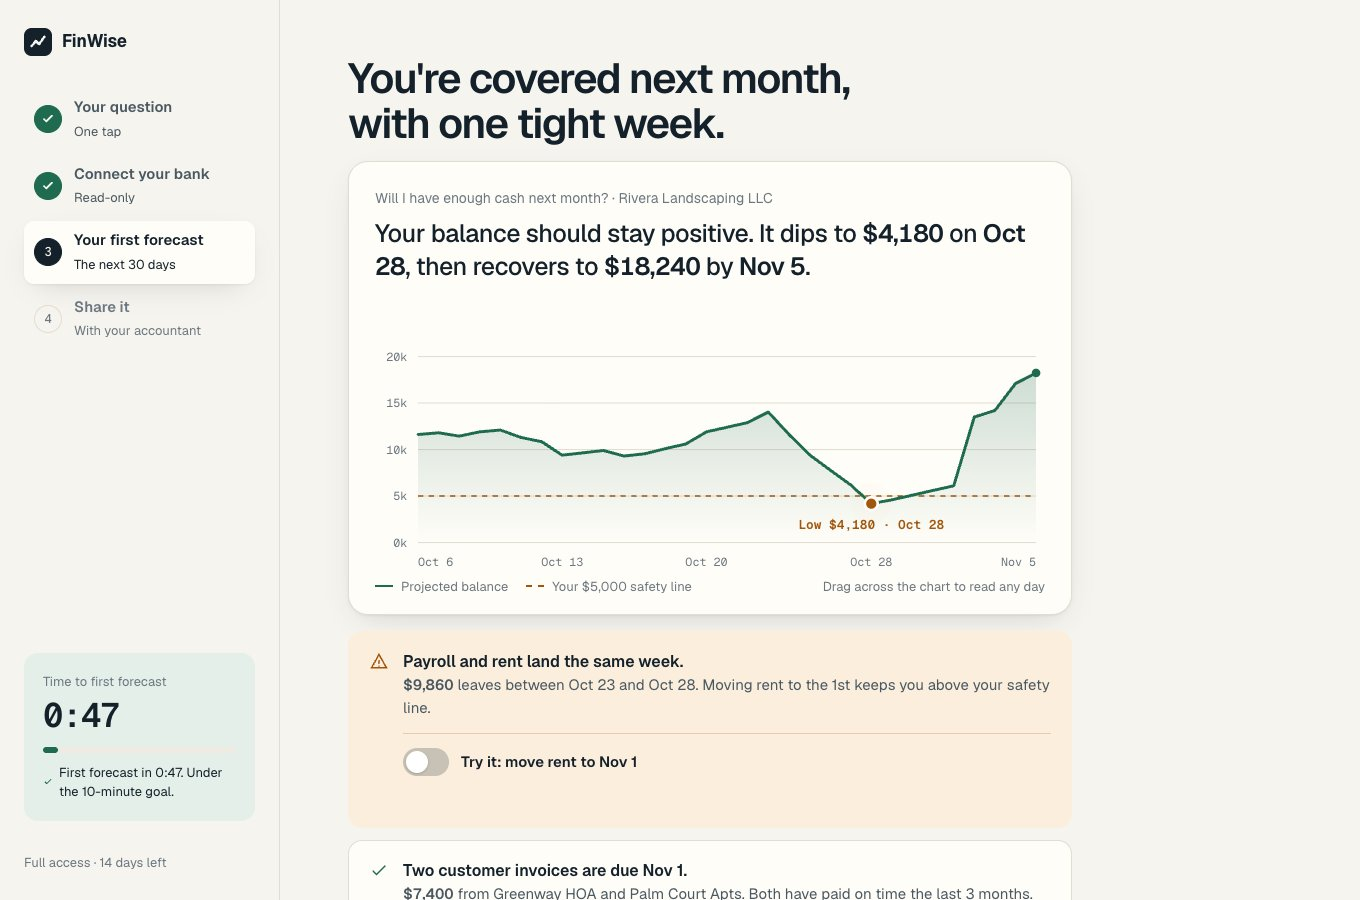
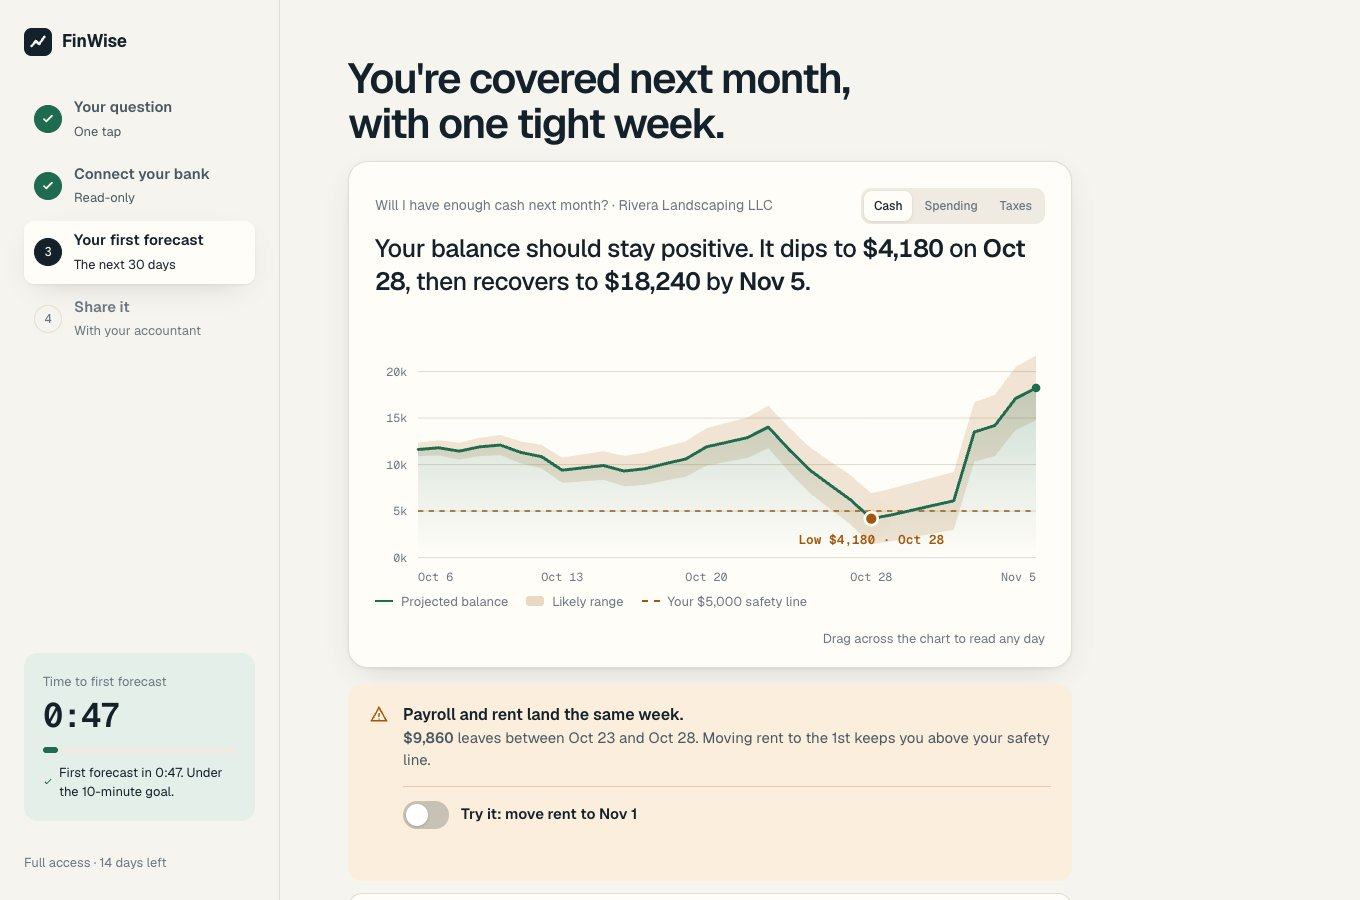
M2 prototype: each quiz answer gets its own Aha visual (spending breakdown, tax set-aside), answer switcher, likely-range band on the forecast

Changed region(s): [[0.2471, 0.4044, 0.8029, 1.0], [0.2779, 0.2178, 0.7721, 0.3422], [0.2779, 0.4356, 0.3088, 0.4667]]

diff --git a/02-solution/prototype/index.html b/02-solution/prototype/index.html
@@ -183,6 +183,42 @@ h1:focus{outline:none}
 .whatif label{font-weight:600;font-size:15px;cursor:pointer}
 .whatif .res{flex-basis:100%;font-size:14px;color:var(--ink-2);min-height:21px}
 
+/* goal switch + goal visuals */
+.qrow{display:flex;justify-content:space-between;align-items:center;gap:12px;flex-wrap:wrap;margin-bottom:8px}
+.qrow .q{margin:0}
+.qswitch{display:inline-flex;padding:3px;border-radius:10px;background:var(--line-2);gap:2px}
+.qswitch button{border:0;background:transparent;padding:6px 10px;border-radius:8px;font-size:12px;font-weight:500;color:var(--ink-3);cursor:pointer;transition:background .25s,color .25s}
+.qswitch button[aria-pressed="true"]{background:var(--card);color:var(--ink);box-shadow:0 1px 3px rgba(20,33,43,.12)}
+.gviz{margin:22px 0 6px}
+.gviz[hidden],.chartttl[hidden]{display:none}
+.chartttl{font-size:13px;color:var(--ink-3);margin-top:22px;margin-bottom:-14px}
+.bills{display:grid;gap:12px}
+.bill{display:grid;grid-template-columns:90px minmax(0,1fr) 78px 64px;gap:12px;align-items:center;font-size:14px}
+.bill .nm{font-weight:600}
+.bill .tr{height:12px;border-radius:6px;background:var(--line-2);overflow:hidden}
+.bill .tr i{display:block;height:100%;width:0;border-radius:6px;transition:width 1s var(--ease)}
+.bill .am{font:600 14px "Geist Mono",monospace;text-align:right;font-variant-numeric:tabular-nums}
+.bill .wh{font-size:12px;color:var(--ink-3);text-align:right}
+.strip{position:relative;height:56px;margin-top:22px;border-top:1px solid var(--line)}
+.strip .wk{position:absolute;top:0;height:34px;border-radius:0 0 8px 8px;background:var(--amber-soft);opacity:0;transition:opacity .6s var(--ease) .6s}
+.strip .wk span{position:absolute;left:8px;top:8px;font-size:12px;font-weight:600;color:var(--amber);white-space:nowrap}
+.strip .pin{position:absolute;top:-6px;width:12px;height:12px;margin-left:-6px;border-radius:50%;border:2px solid var(--card);transform:scale(0);transition:transform .5s var(--ease)}
+.strip .tk{position:absolute;bottom:0;font:11px "Geist Mono",monospace;color:var(--ink-3);transform:translateX(-50%);white-space:nowrap}
+.strip .tk:first-of-type{transform:none}.strip .tk:last-of-type{transform:translateX(-100%)}
+.gviz.in .wk{opacity:1}.gviz.in .pin{transform:scale(1)}
+.tax{display:grid;gap:14px}
+.tax .goalrow{display:flex;justify-content:space-between;align-items:baseline;font-size:14px;color:var(--ink-3)}
+.tax .goalrow b{font:600 22px "Geist Mono",monospace;color:var(--ink);letter-spacing:-.03em}
+.tax .track{display:grid;grid-template-columns:repeat(3,1fr);gap:6px}
+.tax .blk{height:44px;border-radius:10px;background:var(--line-2);position:relative;overflow:hidden}
+.tax .blk i{position:absolute;inset:0;background:var(--green);transform:scaleX(0);transform-origin:left;transition:transform .7s var(--ease)}
+.tax .blk>span{position:absolute;inset:0;display:flex;align-items:center;justify-content:space-between;padding:0 12px;font-size:13px;font-weight:600;color:var(--ink);z-index:1;transition:color .4s}
+.tax .blk.on>span{color:#fff}
+.tax .hold{display:flex;gap:10px;align-items:center;font-size:13px;color:var(--ink-2);padding:10px 12px;border-radius:10px;background:var(--amber-soft)}
+.tax .hold svg{flex:none;width:16px;height:16px;stroke:var(--amber)}
+.legend i.b{height:10px;border:0;border-radius:3px;background:color-mix(in srgb,var(--amber) 22%,transparent)}
+@media (max-width:600px){.bill{grid-template-columns:70px minmax(0,1fr) 70px}.bill .wh{display:none}.qswitch button{padding:6px 8px}}
+
 /* ---------- 4 · share ---------- */
 .sharegrid{display:grid;grid-template-columns:minmax(0,1fr) minmax(0,1.05fr);gap:28px;align-items:start}
 label.f{display:block;font-size:14px;font-weight:500;color:var(--ink-2);margin-bottom:8px}
@@ -330,12 +366,15 @@ input[type=email][aria-invalid="true"]{border-color:var(--amber)}
 <section class="screen" id="s3" aria-labelledby="h3a">
   <h1 id="h3a" class="enter">You're covered next month, with one tight week.</h1>
   <div class="answer enter">
-    <p class="q" id="q3">Will I have enough cash next month? · Rivera Landscaping LLC</p>
+    <div class="qrow"><p class="q" id="q3">Will I have enough cash next month? · Rivera Landscaping LLC</p>
+      <div class="qswitch" role="group" aria-label="Answer a different question"><button data-g="cash" aria-pressed="true">Cash</button><button data-g="spend" aria-pressed="false">Spending</button><button data-g="tax" aria-pressed="false">Taxes</button></div></div>
     <p class="big" id="big3">Your balance should stay positive. It dips to <span class="num">$4,180</span> on <span class="num">Oct 28</span>, then recovers to <span class="num">$18,240</span> by <span class="num">Nov 5</span>.</p>
+    <div class="gviz" id="gviz" hidden></div>
+    <p class="chartttl" id="chartttl" hidden>Your next 30 days</p>
     <div class="chartwrap">
       <svg class="chart" id="chart" viewBox="0 0 640 250" tabindex="0" role="slider" aria-label="Projected daily cash balance for the next 30 days. Use arrow keys to read each day." aria-valuemin="0" aria-valuemax="30" aria-valuenow="22" aria-valuetext="Oct 28: $4,180, lowest point"></svg>
     </div>
-    <div class="legend"><span><i></i>Projected balance</span><span><i class="s"></i>Your $5,000 safety line</span><span class="hint">Drag across the chart to read any day</span></div>
+    <div class="legend"><span><i></i>Projected balance</span><span><i class="b"></i>Likely range</span><span><i class="s"></i>Your $5,000 safety line</span><span class="hint">Drag across the chart to read any day</span></div>
   </div>
   <div class="flags">
     <div class="flag warn enter" id="warn"><svg viewBox="0 0 24 24" fill="none" stroke-width="1.8" stroke-linecap="round" aria-hidden="true"><path d="M12 3l9 16H3z"/><path d="M12 10v4M12 17h0"/></svg><div class="body"><b>Payroll and rent land the same week.</b><p><span class="num">$9,860</span> leaves between Oct 23 and Oct 28. Moving rent to the 1st keeps you above your safety line.</p>
@@ -419,7 +458,7 @@ function show(i){
   $('segname').textContent='Step '+(i+1)+' of 4 · '+NAMES[i];
   const h=screens[i].querySelector('h1');h.setAttribute('tabindex','-1');h.focus({preventScroll:true});
   window.scrollTo({top:0,behavior:RM?'auto':'smooth'});
-  if(i===2){stopClock();drawChart(true);countUp();}
+  if(i===2){stopClock();drawChart(true);countUp();if(goal!=='cash')playGviz();}
   if(i===3){drawMini('mini');}
 }
 function toast(msg){const t=$('toast');t.textContent=msg;t.classList.add('on');clearTimeout(t._h);t._h=setTimeout(()=>t.classList.remove('on'),3800);}
@@ -433,7 +472,27 @@ let goal='cash'; const big0=$('big3').innerHTML;
 document.querySelectorAll('.choice').forEach(c=>c.addEventListener('click',()=>{
   document.querySelectorAll('.choice').forEach(o=>o.setAttribute('aria-pressed','false'));
   c.setAttribute('aria-pressed','true');goal=c.dataset.goal;$('go1').disabled=false;}));
-function applyGoal(){const a=ANS[goal];$('h3a').textContent=a.h;$('q3').textContent=a.q+' · Rivera Landscaping LLC';$('big3').innerHTML=a.b||big0;}
+const tick='<svg viewBox="0 0 24 24" width="16" height="16" fill="none" stroke="currentColor" stroke-width="2.4" stroke-linecap="round" stroke-linejoin="round" aria-hidden="true"><path d="M5 12l4 4 10-10"/></svg>';
+function gvizHTML(g){
+  if(g==='spend'){const B=[['Payroll',6420,'Oct 23','var(--amber)'],['Rent',3440,'Oct 28','var(--amber)'],['Supplies',1180,'Oct 15','var(--ink-2)']];
+    const xp=d=>((d-6)/30*100).toFixed(1)+'%';
+    return '<div class="bills">'+B.map(b=>`<div class="bill"><span class="nm">${b[0]}</span><span class="tr"><i data-w="${(b[1]/6420*100).toFixed(1)}" style="background:${b[3]}"></i></span><span class="am">${fmt(b[1])}</span><span class="wh">${b[2]}</span></div>`).join('')+'</div>'+
+      `<div class="strip" aria-hidden="true"><div class="wk" style="left:${xp(23)};width:${(5/30*100).toFixed(1)}%"><span>Same week · $9,860 out</span></div>`+
+      [[15,'var(--ink-2)'],[23,'var(--amber)'],[28,'var(--amber)']].map(([d,c],k)=>`<i class="pin" style="left:${xp(d)};background:${c};transition-delay:${.3+k*.15}s"></i>`).join('')+
+      [[6,'Oct 6'],[15,'Oct 15'],[23,'Oct 23'],[28,'Oct 28'],[36,'Nov 5']].map(([d,t])=>`<span class="tk" style="left:${xp(d)}">${t}</span>`).join('')+'</div>';}
+  if(g==='tax'){return `<div class="tax"><div class="goalrow"><span>Q4 estimate · due Jan 15</span><b>$3,900</b></div>
+    <div class="track">${['Nov 1','Dec 1','Jan 1'].map(m=>`<div class="blk"><i></i><span>${m}<span class="mono">$1,300</span></span></div>`).join('')}</div>
+    <div class="hold"><svg viewBox="0 0 24 24" fill="none" stroke-width="2" stroke-linecap="round" aria-hidden="true"><path d="M12 3l9 16H3z"/><path d="M12 10v4M12 17h0"/></svg>Hold off during Oct 23–28. Start after the Nov 1 invoices clear.</div></div>`;}
+  return '';}
+function playGviz(){const v=$('gviz');v.classList.remove('in');v.querySelectorAll('.tr i').forEach(i=>i.style.width='0');v.querySelectorAll('.blk').forEach(b=>{b.classList.remove('on');b.querySelector('i').style.transform=''});
+  const go=()=>{v.classList.add('in');v.querySelectorAll('.tr i').forEach(i=>i.style.width=i.dataset.w+'%');
+    v.querySelectorAll('.blk').forEach((b,k)=>setTimeout(()=>{b.classList.add('on');b.querySelector('i').style.transform='scaleX(1)'},RM?0:250+k*450));};
+  RM?go():requestAnimationFrame(()=>requestAnimationFrame(go));}
+function applyGoal(){const a=ANS[goal];$('h3a').textContent=a.h;$('q3').textContent=a.q+' · Rivera Landscaping LLC';$('big3').innerHTML=a.b||big0;
+  document.querySelectorAll('.qswitch button').forEach(b=>b.setAttribute('aria-pressed',String(b.dataset.g===goal)));
+  document.querySelectorAll('.choice').forEach(c=>c.setAttribute('aria-pressed',String(c.dataset.goal===goal)));
+  const h=gvizHTML(goal);$('gviz').innerHTML=h;$('gviz').hidden=!h;$('chartttl').hidden=!h;if(h)playGviz();}
+document.querySelectorAll('.qswitch button').forEach(b=>b.addEventListener('click',()=>{if(goal===b.dataset.g)return;goal=b.dataset.g;applyGoal();countUp();drawChart(false);}));
 $('go1').onclick=()=>{applyGoal();show(1);};
 
 /* ---------- 2 · connect + live sort ---------- */
@@ -480,6 +539,7 @@ const MOVED=BASE.map((v,i)=>i>=22&&i<=25?v+3440:v);
 let cur=BASE.slice(), hover=null, moved=false;
 let W=640;const H=250,P={l:46,r:14,t:30,b:28},MAX=22000;
 const X=i=>P.l+i*(W-P.l-P.r)/30, Y=v=>P.t+(1-v/MAX)*(H-P.t-P.b);
+const SPR=i=>0.4*(1800+i*230), fk=v=>'$'+(v/1000).toFixed(1)+'k';
 function pathFor(s){return s.map((v,i)=>(i?'L':'M')+X(i).toFixed(1)+','+Y(v).toFixed(1)).join('');}
 function minIdx(s){let m=0;s.forEach((v,i)=>{if(v<s[m])m=i});return m;}
 function drawChart(intro){
@@ -489,12 +549,13 @@ function drawChart(intro){
   [0,5000,10000,15000,20000].forEach(v=>{g+=`<line x1="${P.l}" x2="${W-P.r}" y1="${Y(v)}" y2="${Y(v)}" stroke="var(--line)" stroke-width="1"/><text class="ax" x="${P.l-10}" y="${Y(v)+4}" text-anchor="end">${v/1000}k</text>`});
   (W<480?[[0,'start'],[14,'middle'],[22,'middle'],[30,'end']]:[[0,'start'],[7,'middle'],[14,'middle'],[22,'middle'],[30,'end']]).forEach(([i,a])=>g+=`<text class="ax" x="${X(i)}" y="${H-6}" text-anchor="${a}">${day(i)}</text>`);
   g+=`<line x1="${P.l}" x2="${W-P.r}" y1="${Y(5000)}" y2="${Y(5000)}" stroke="var(--amber)" stroke-width="1.5" stroke-dasharray="5 5"/>`;
-  g+=`<g clip-path="url(#rev)"><path d="${pathFor(s)}L${X(30)},${Y(0)}L${X(0)},${Y(0)}Z" fill="url(#fill)"/><path id="ln" d="${pathFor(s)}" fill="none" stroke="var(--green)" stroke-width="2.75" stroke-linejoin="round" stroke-linecap="round"/><circle cx="${X(30)}" cy="${Y(s[30])}" r="4" fill="var(--green)"/></g>`;
+  const up=s.map((v,i)=>v+SPR(i)),dn=s.map((v,i)=>Math.max(0,v-SPR(i)));
+  g+=`<g clip-path="url(#rev)"><path d="${up.map((v,i)=>(i?'L':'M')+X(i).toFixed(1)+','+Y(v).toFixed(1)).join('')}${dn.map((v,i)=>'L'+X(30-i).toFixed(1)+','+Y(dn[30-i]).toFixed(1)).join('')}Z" fill="var(--amber)" opacity=".15"/><path d="${pathFor(s)}L${X(30)},${Y(0)}L${X(0)},${Y(0)}Z" fill="url(#fill)"/><path id="ln" d="${pathFor(s)}" fill="none" stroke="var(--green)" stroke-width="2.75" stroke-linejoin="round" stroke-linecap="round"/><circle cx="${X(30)}" cy="${Y(s[30])}" r="4" fill="var(--green)"/></g>`;
   const lc=safe?'var(--green)':'var(--amber)', lx=X(mi), ly=Y(s[mi]);
   g+=`<g id="low" style="opacity:${intro&&!RM?0:1};transition:opacity .5s"><circle class="pulse" cx="${lx}" cy="${ly}" r="6" fill="${lc}"/><circle cx="${lx}" cy="${ly}" r="6" fill="${lc}" stroke="var(--card)" stroke-width="2.5"/><text class="lowlbl" x="${lx>W-90?W-P.r:lx}" y="${ly+24}" text-anchor="${lx>W-90?'end':'middle'}" fill="${lc}">Low ${fmt(s[mi])} · ${day(mi)}</text></g>`;
-  if(hover!==null){const hx=X(hover),hy=Y(s[hover]),bw=118,bx=Math.max(P.l,Math.min(W-P.r-bw,hx-bw/2));
+  if(hover!==null){const hx=X(hover),hy=Y(s[hover]),bw=196,bx=Math.max(P.l,Math.min(W-P.r-bw,hx-bw/2));
     g+=`<line x1="${hx}" x2="${hx}" y1="${P.t-6}" y2="${H-P.b}" stroke="var(--ink)" stroke-width="1" opacity=".35"/><circle cx="${hx}" cy="${hy}" r="5" fill="var(--card)" stroke="var(--ink)" stroke-width="2"/>`+
-       `<g><rect class="tipbox" x="${bx}" y="0" width="${bw}" height="36" rx="8"/><text class="tiptx" x="${bx+12}" y="16">${fmt(s[hover])}</text><text class="tipsub" x="${bx+12}" y="29">${day(hover)}${s[hover]<5000?' · below line':''}</text></g>`;}
+       `<g><rect class="tipbox" x="${bx}" y="0" width="${bw}" height="36" rx="8"/><text class="tiptx" x="${bx+12}" y="16">${fmt(s[hover])}</text><text class="tipsub" x="${bx+12}" y="29">${day(hover)} · range ${fk(dn[hover])}–${fk(up[hover])}</text></g>`;}
   svg.innerHTML=g;
   const k=hover??mi;svg.setAttribute('aria-valuenow',k);svg.setAttribute('aria-valuetext',`${day(k)}: ${fmt(s[k])}${k===mi?', lowest point':''}`);
   if(intro&&!RM){const r=$('revR');r.animate([{transform:'scaleX(0)'},{transform:'scaleX(1)'}],{duration:1500,easing:'cubic-bezier(.65,0,.35,1)',fill:'forwards'}).onfinish=()=>{r.style.transform='scaleX(1)';const lo=$('low');if(lo)lo.style.opacity=1;};}
